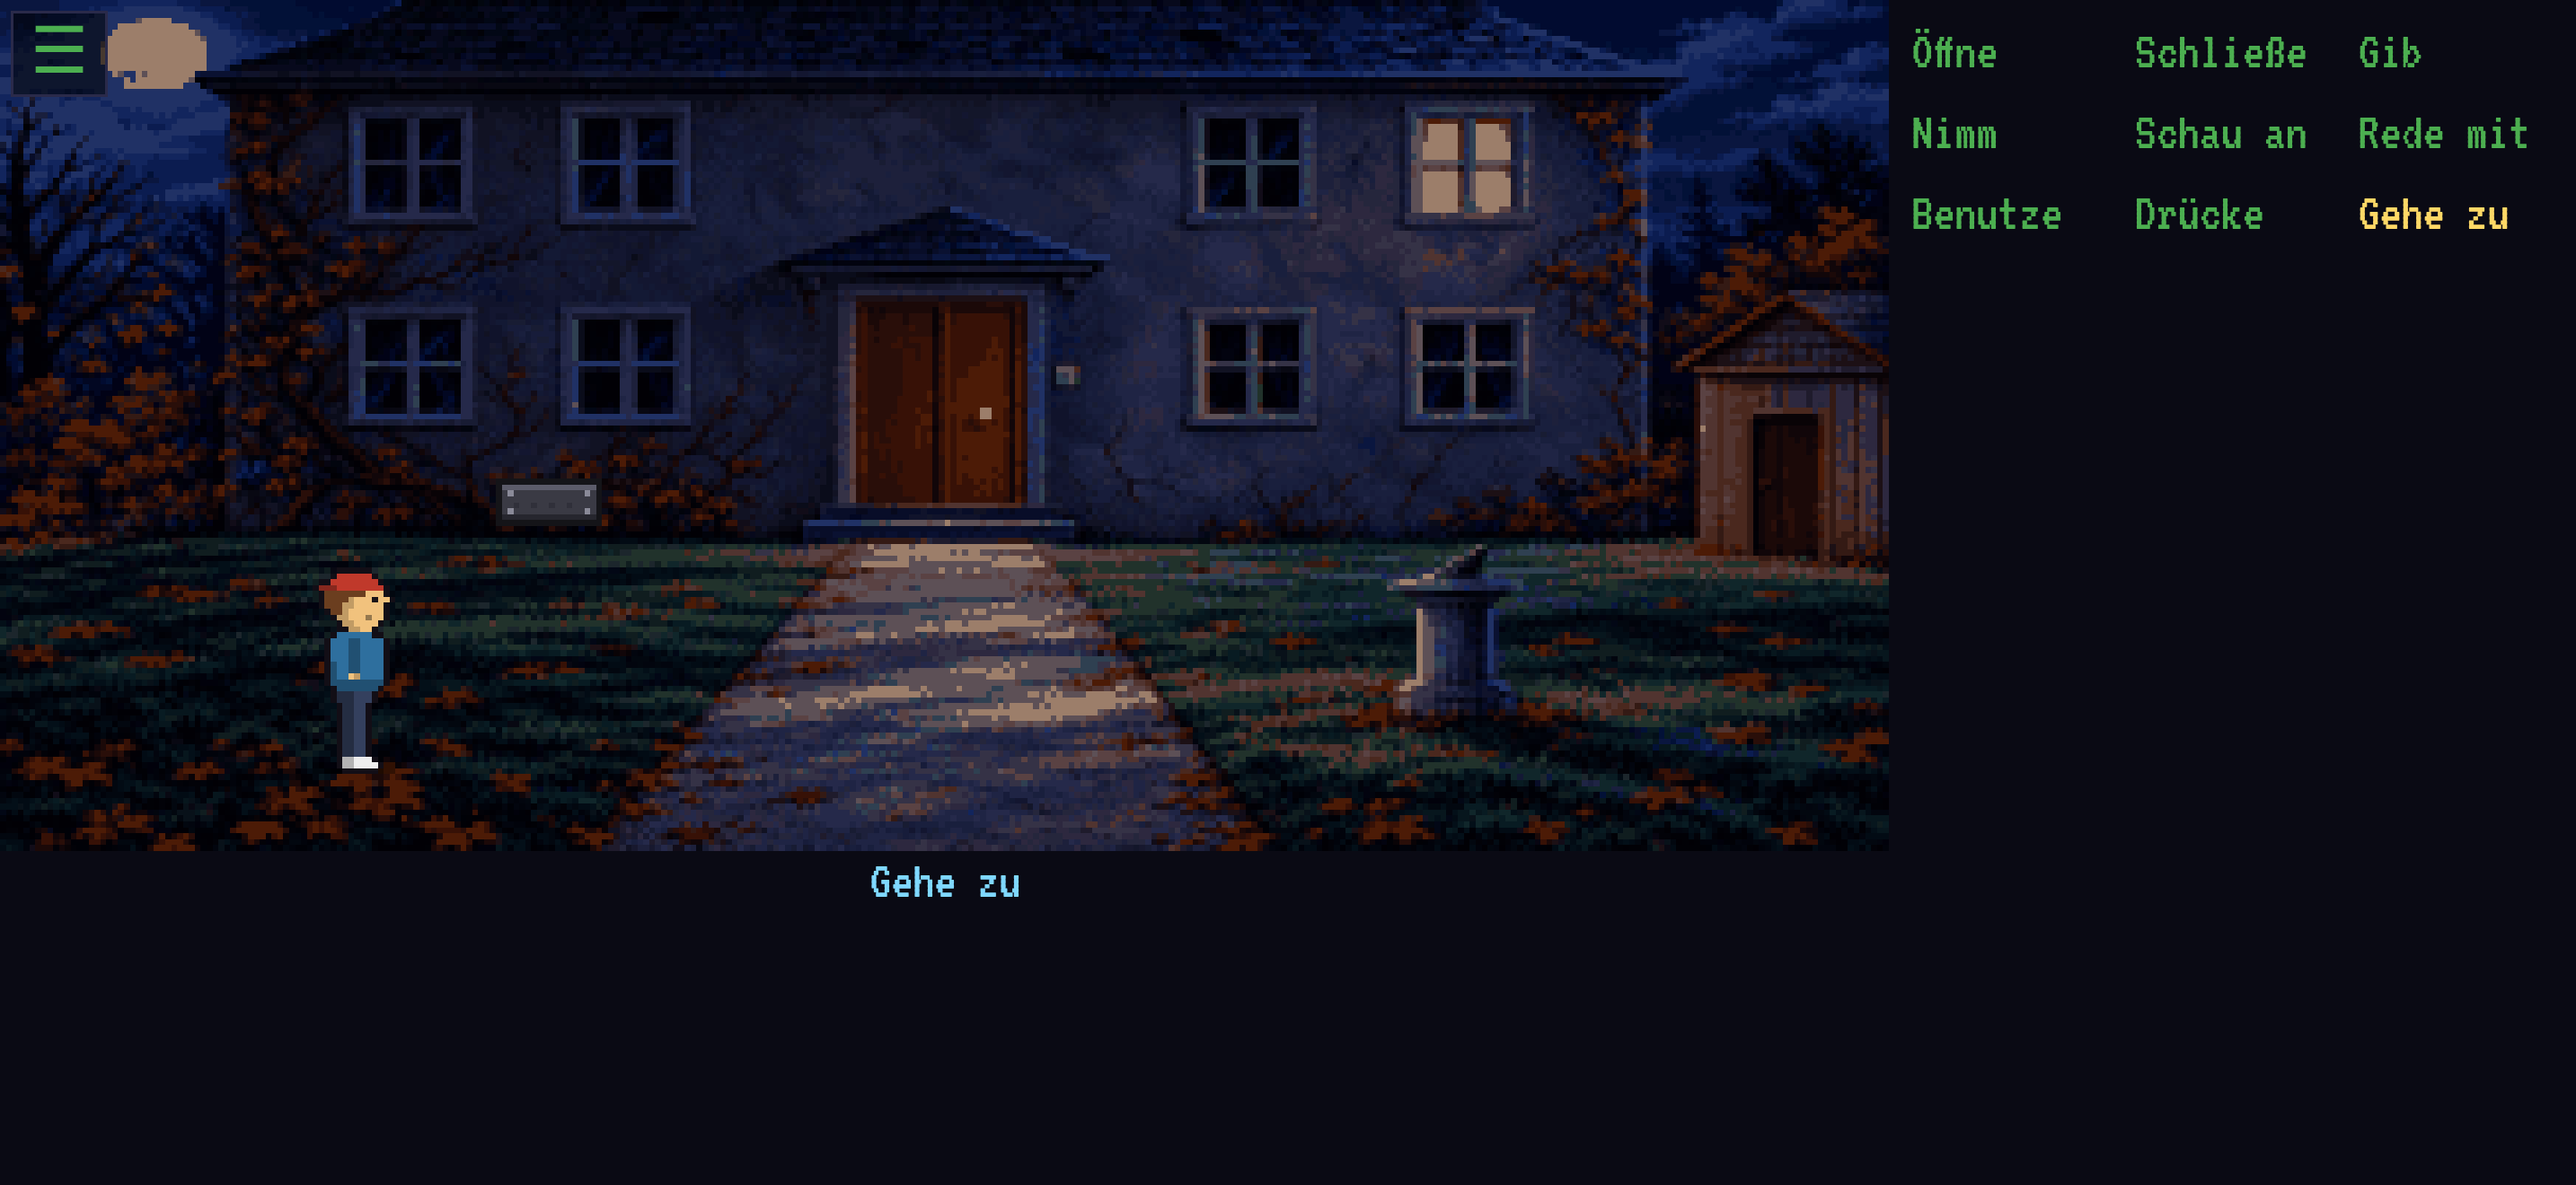
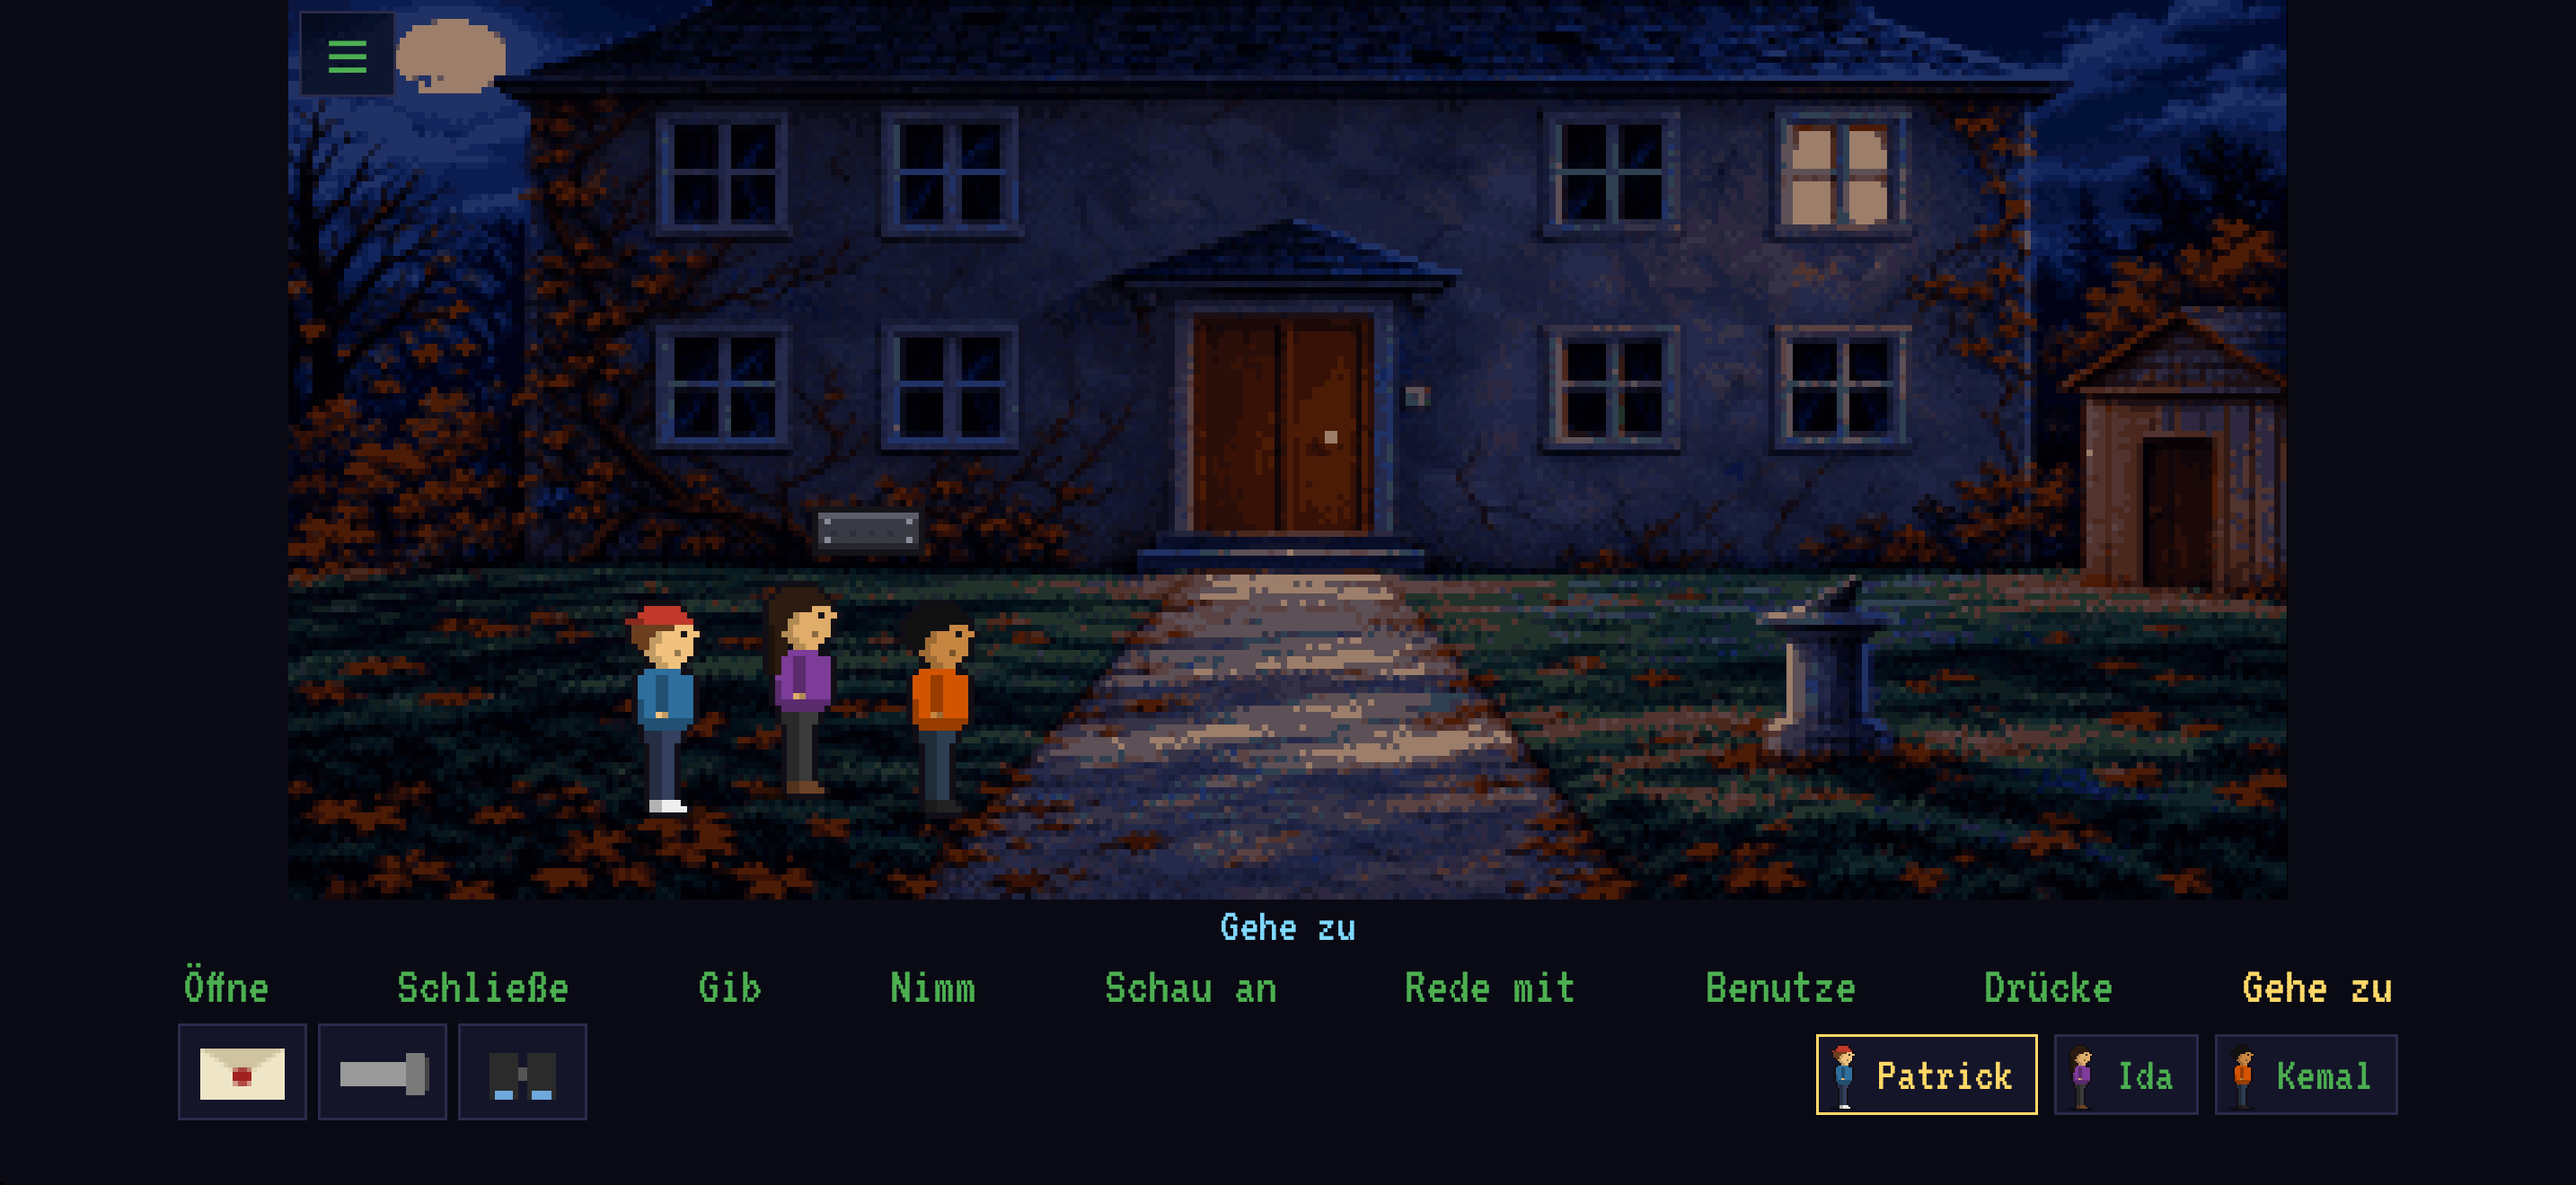
iOS: localized ATT prompt (en/de), new store screenshots (de/en), store listing texts; build 5

diff --git a/store/listing.md b/store/listing.md
@@ -1,0 +1,62 @@
+# App-Store-Texte
+
+Support-URL: https://lottoanalyzer.de/grauweide
+Datenschutz-URL: https://lottoanalyzer.de/grauweide/datenschutz
+Kategorie: Spiele → Adventure (zweite: Spiele → Rätsel) · Preis: kostenlos · In-App-Kauf: `remove_ads`
+
+## Deutsch
+
+**Name:** Haus Grauweide
+
+**Untertitel (max. 30):** Ein Spukhaus-Mysterium
+
+**Werbetext (max. 170):**
+Lindenbrück, Herbst 1987: Sechs Freunde, ein verlassenes Haus und eine Uhr, die seit Jahren stillsteht. Ein Retro-Adventure wie früher.
+
+**Beschreibung:**
+Lindenbrück, Herbst 1987. Im Haus Grauweide auf dem Hügel brennt seit Jahren kein Licht mehr – bis heute Nacht. Patrick und seine Freunde wollen herausfinden, was dort oben vor sich geht.
+
+Das Haus Grauweide ist ein klassisches Point-and-Click-Adventure im Stil der späten 80er: handgepixelte Räume, Verben wie „Öffne“, „Nimm“ und „Benutze“ und knifflige Rätsel, die man nur gemeinsam löst.
+
+• Sechs Freunde, jeder mit eigener Fähigkeit: Ida liest alte Schriften, Kemal knackt Schlösser, Merles Sofortbildkamera zeigt das Unsichtbare, Finn hört Dinge im Funkgerät, Lena klettert überall hinauf.
+• Wechsle jederzeit zwischen den Figuren und kombiniere ihre Stärken.
+• 13 Schauplätze – vom Baumhaus über die Bibliothek bis in die Uhrenkammer.
+• Drei verschiedene Enden.
+• Automatisches Speichern – einfach weiterspielen, wo du aufgehört hast.
+• Komplett auf Deutsch und Englisch.
+
+Das Spiel ist kostenlos und wird durch Werbung finanziert. Mit einem einmaligen Kauf („Werbung entfernen“) spielst du ganz ohne Werbung.
+
+**Keywords (max. 100):**
+Adventure,Point and Click,Retro,Pixel,Rätsel,Spukhaus,Mystery,Krimi,80er,Klassiker,Freunde,Detektiv
+
+## English
+
+**Name:** Haus Grauweide
+
+**Subtitle (max. 30):** A Haunted House Mystery
+
+**Promotional text (max. 170):**
+Lindenbrück, autumn 1987: six friends, an abandoned house and a clock that has stood still for years. A retro adventure like they used to make.
+
+**Description:**
+Lindenbrück, autumn 1987. No light has burned in Grauweide House on the hill for years – until tonight. Patrick and his friends set out to find out what is going on up there.
+
+Grauweide House is a classic point-and-click adventure in the style of the late 80s: hand-pixeled rooms, verbs like "Open", "Pick up" and "Use", and tricky puzzles you can only solve together.
+
+• Six friends, each with their own skill: Ida reads old writings, Kemal cracks locks, Merle's instant camera reveals the invisible, Finn hears things on his walkie-talkie, Lena climbs anything.
+• Switch between characters at any time and combine their strengths.
+• 13 locations – from the treehouse to the library and the clock room.
+• Three different endings.
+• Autosave – just pick up where you left off.
+• Fully playable in English and German.
+
+The game is free and supported by ads. A one-time purchase ("Remove Ads") lets you play completely ad-free.
+
+**Keywords (max. 100):**
+adventure,point and click,retro,pixel art,puzzle,haunted house,mystery,80s,classic,friends,detective
+
+## Screenshots (iPhone 6,9″, 2868×1320)
+
+- Deutsch: `store/screenshots/iphone-6.9-0-title.png` … `iphone-6.9-5-treehouse.png`
+- Englisch: `store/screenshots/iphone-6.9-en-0-title.png` … `iphone-6.9-en-5-treehouse.png`
